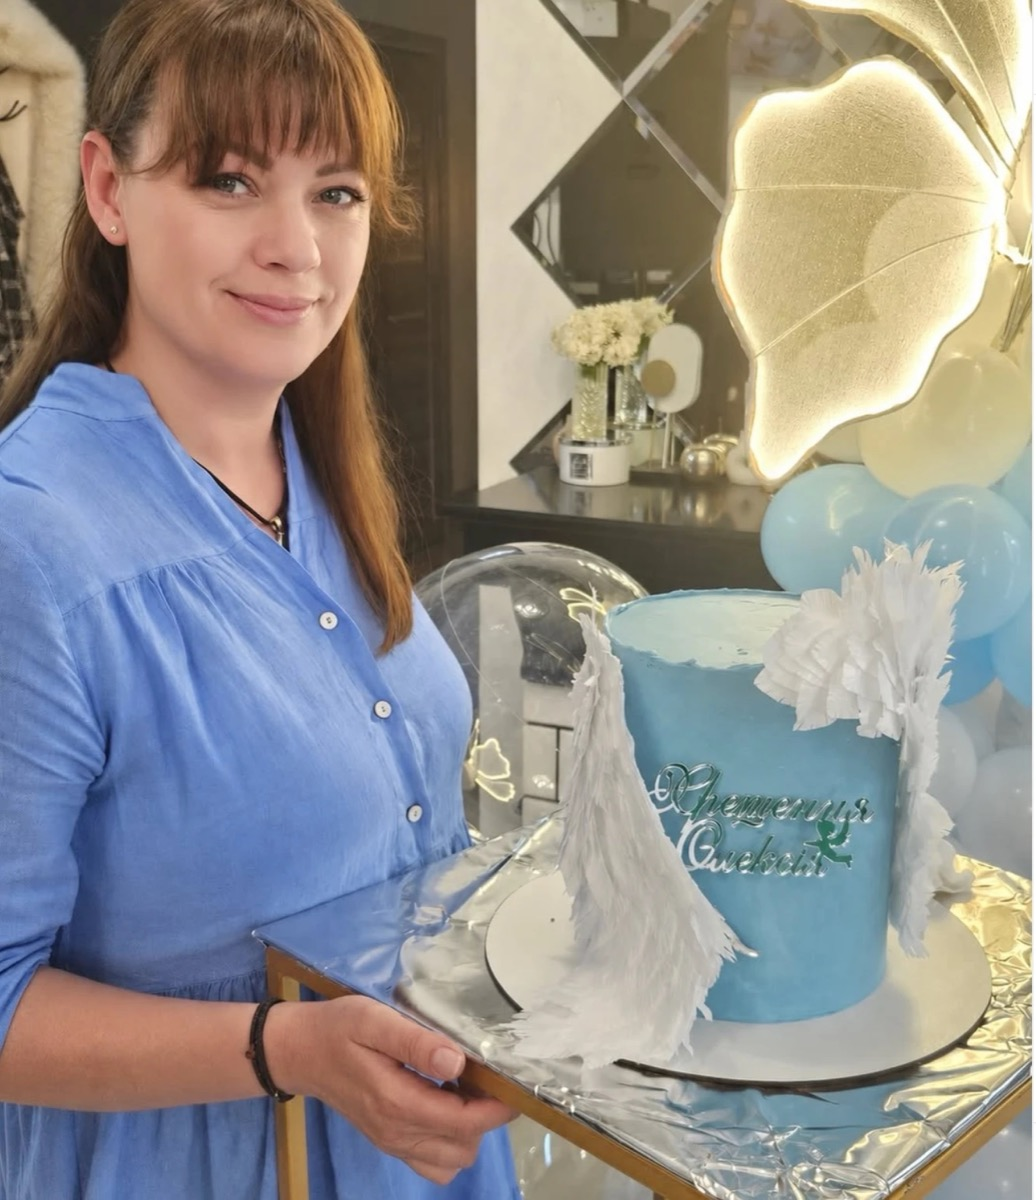
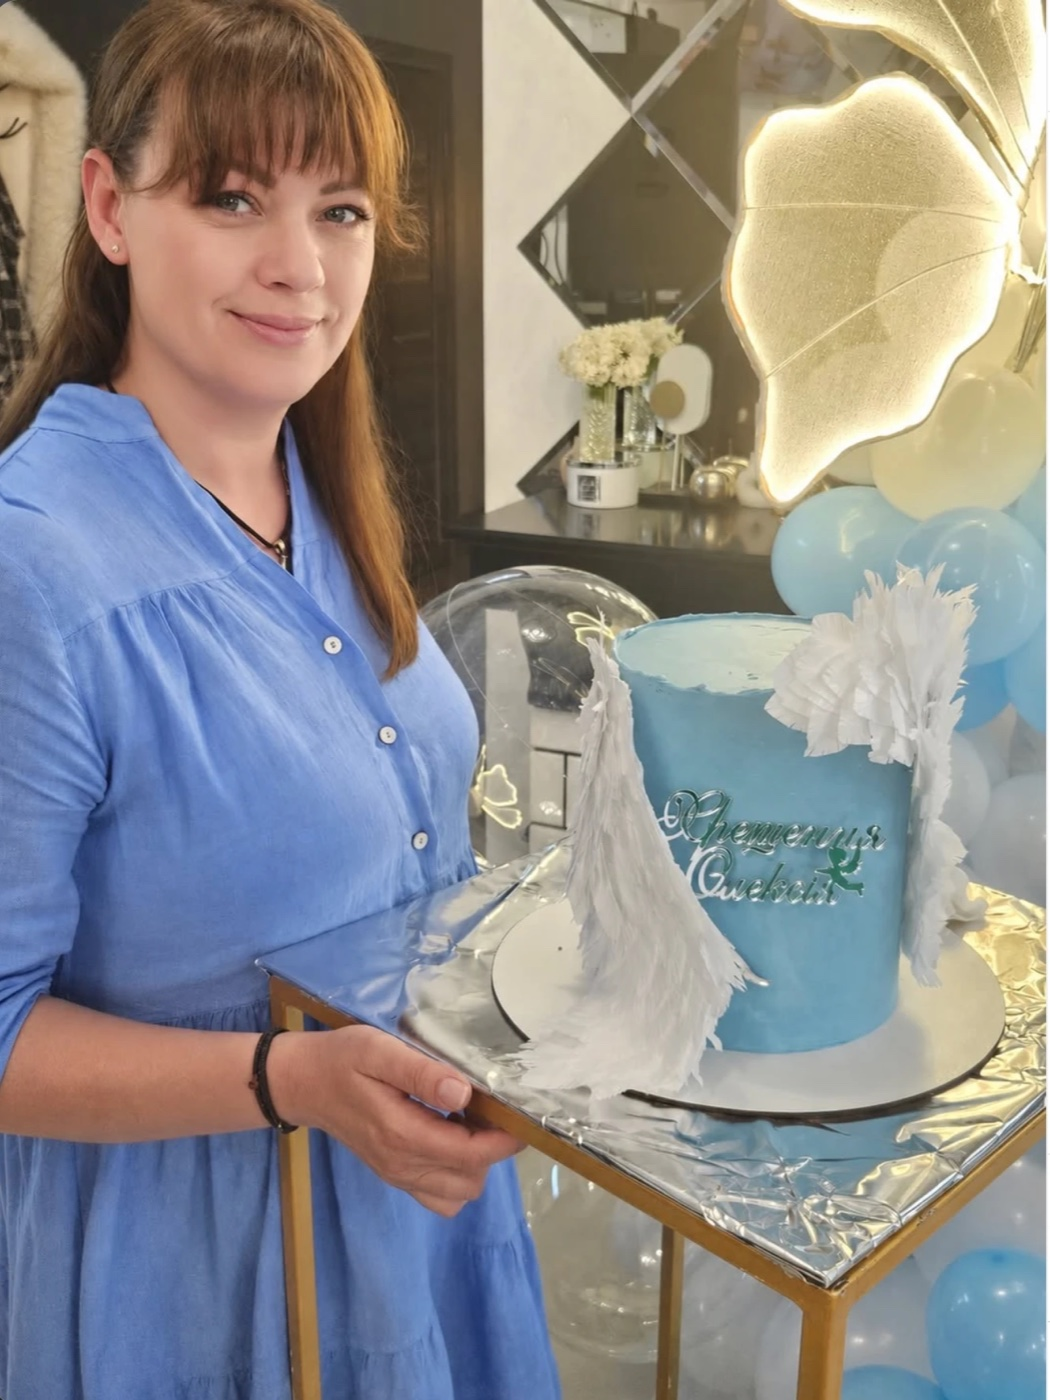
Add files via upload

diff --git a/index.html b/index.html
@@ -16,7 +16,7 @@
   <meta property="og:description" content="French mousse cakes & custom desserts, handmade to order in Nicosia, Cyprus." />
   <meta property="og:image" content="https://elenibakery.github.io/Eleni/eleni.jpg" />
   <meta property="og:url" content="https://elenibakery.github.io/Eleni/" />
-  <link rel="stylesheet" href="styles.css?v=20261117" />
+  <link rel="stylesheet" href="styles.css?v=20261117b" />
 </head>
 <body>
   <div class="bg-signature" aria-hidden="true"><span>Eleni Pourpourides</span></div>
@@ -59,21 +59,17 @@
       </div>
 
       <div class="hero-visual reveal">
-        <div class="blob blob-1" aria-hidden="true"></div>
-        <div class="blob blob-2" aria-hidden="true"></div>
-        <div class="hero-frame" aria-hidden="true"></div>
-        <figure class="photo hero-portrait" data-label="eleni.jpg">
-          <img src="eleni.jpg" alt="Pastry chef Eleni Pourpourides with one of her celebration cakes" fetchpriority="high" />
-        </figure>
-        <figure class="photo hero-float hero-float-1" data-label="crown-cake.jpg">
-          <img src="crown-cake.jpg" alt="Pink velour mousse cake with a crown" />
-        </figure>
-        <figure class="photo hero-float hero-float-2" data-label="vintage-cake.jpg">
-          <img src="vintage-cake.jpg" alt="Vintage piped celebration cake" />
-        </figure>
-        <div class="badge-spin" aria-hidden="true">
-          <svg viewBox="0 0 120 120"><defs><path id="circ" d="M60,60 m-46,0 a46,46 0 1,1 92,0 a46,46 0 1,1 -92,0"/></defs><text><textPath href="#circ">MADE WITH LOVE · MADE TO ORDER · </textPath></text></svg>
-          <span>EP</span>
+        <div class="portrait-wrap">
+          <figure class="photo hero-portrait">
+            <img src="eleni.jpg" width="1050" height="1400" alt="Pastry chef Eleni Pourpourides with one of her celebration cakes" fetchpriority="high" />
+          </figure>
+          <figure class="photo hero-float" aria-hidden="true">
+            <img src="vintage-cake.jpg" alt="" />
+          </figure>
+          <div class="nameplate">
+            <span class="nameplate-name">Eleni Pourpourides</span>
+            <span class="nameplate-role">Pastry chef · Nicosia</span>
+          </div>
         </div>
       </div>
     </section>

diff --git a/styles.css b/styles.css
@@ -553,3 +553,42 @@ main, .footer { position: relative; z-index: 1; }
   .about-tag { left: -4px; bottom: 12px; padding: 10px 14px; }
   .about-tag span { font-size: 19px; }
 }
+
+/* ---------- Hero portrait (v2): full photo, rectangular frame ---------- */
+.hero-visual { height: auto; display: flex; justify-content: center; align-items: center; }
+.portrait-wrap { position: relative; width: min(100%, 470px); padding: 22px 34px 40px 22px; }
+.portrait-wrap::before {
+  content: ""; position: absolute; top: 0; left: 0; right: 12px; bottom: 18px;
+  border: 1px solid var(--gold-soft); border-radius: 4px; pointer-events: none;
+}
+.hero-visual .hero-portrait {
+  position: relative; inset: auto; width: 100%; aspect-ratio: 3 / 4;
+  border-radius: 4px; box-shadow: 0 40px 80px -36px rgba(43, 33, 29, .55);
+}
+.hero-portrait img { object-fit: cover; object-position: center top; filter: saturate(.97) contrast(1.02) brightness(1.02); }
+.hero-visual .hero-float {
+  position: absolute; top: 9%; right: 0; left: auto; bottom: auto;
+  width: 30%; aspect-ratio: 1; border-radius: 50%;
+  border: 6px solid var(--paper); outline: 1px solid var(--gold-soft); outline-offset: 4px;
+  box-shadow: var(--shadow-soft); animation: bob 7s ease-in-out infinite; z-index: 2;
+}
+.nameplate {
+  position: absolute; left: 0; bottom: 6px; z-index: 2;
+  background: var(--paper); padding: 16px 26px 14px; border-radius: 4px;
+  border-left: 3px solid var(--gold);
+  box-shadow: 0 18px 40px -18px rgba(43, 33, 29, .45);
+  display: flex; flex-direction: column; gap: 2px;
+}
+.nameplate-name { font-family: var(--f-serif); font-size: 24px; font-weight: 500; line-height: 1.1; }
+.nameplate-role { font-size: 11px; letter-spacing: .24em; text-transform: uppercase; color: var(--gold); }
+@media (max-width: 900px) {
+  .hero-visual { aspect-ratio: auto; max-width: none; }
+  .portrait-wrap { width: min(100%, 420px); }
+}
+@media (max-width: 700px) {
+  .portrait-wrap { padding: 16px 22px 34px 14px; }
+  .portrait-wrap::before { right: 8px; bottom: 14px; }
+  .nameplate { padding: 12px 18px 10px; }
+  .nameplate-name { font-size: 20px; }
+  .nameplate-role { font-size: 10px; }
+}
